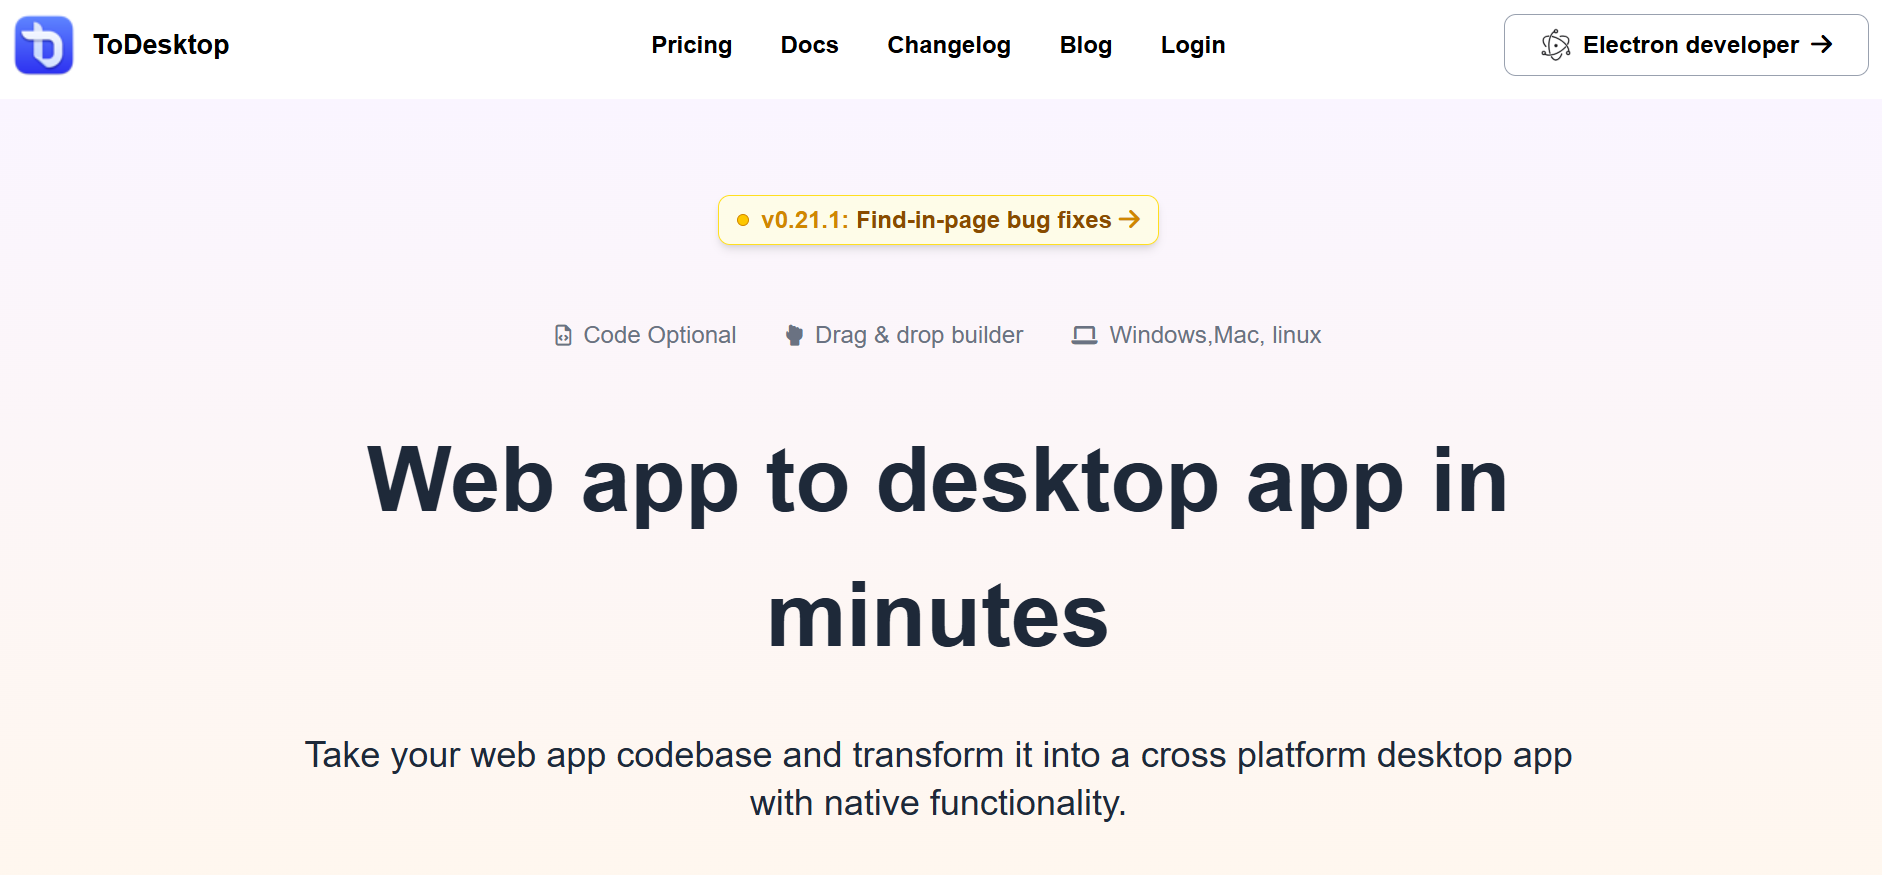
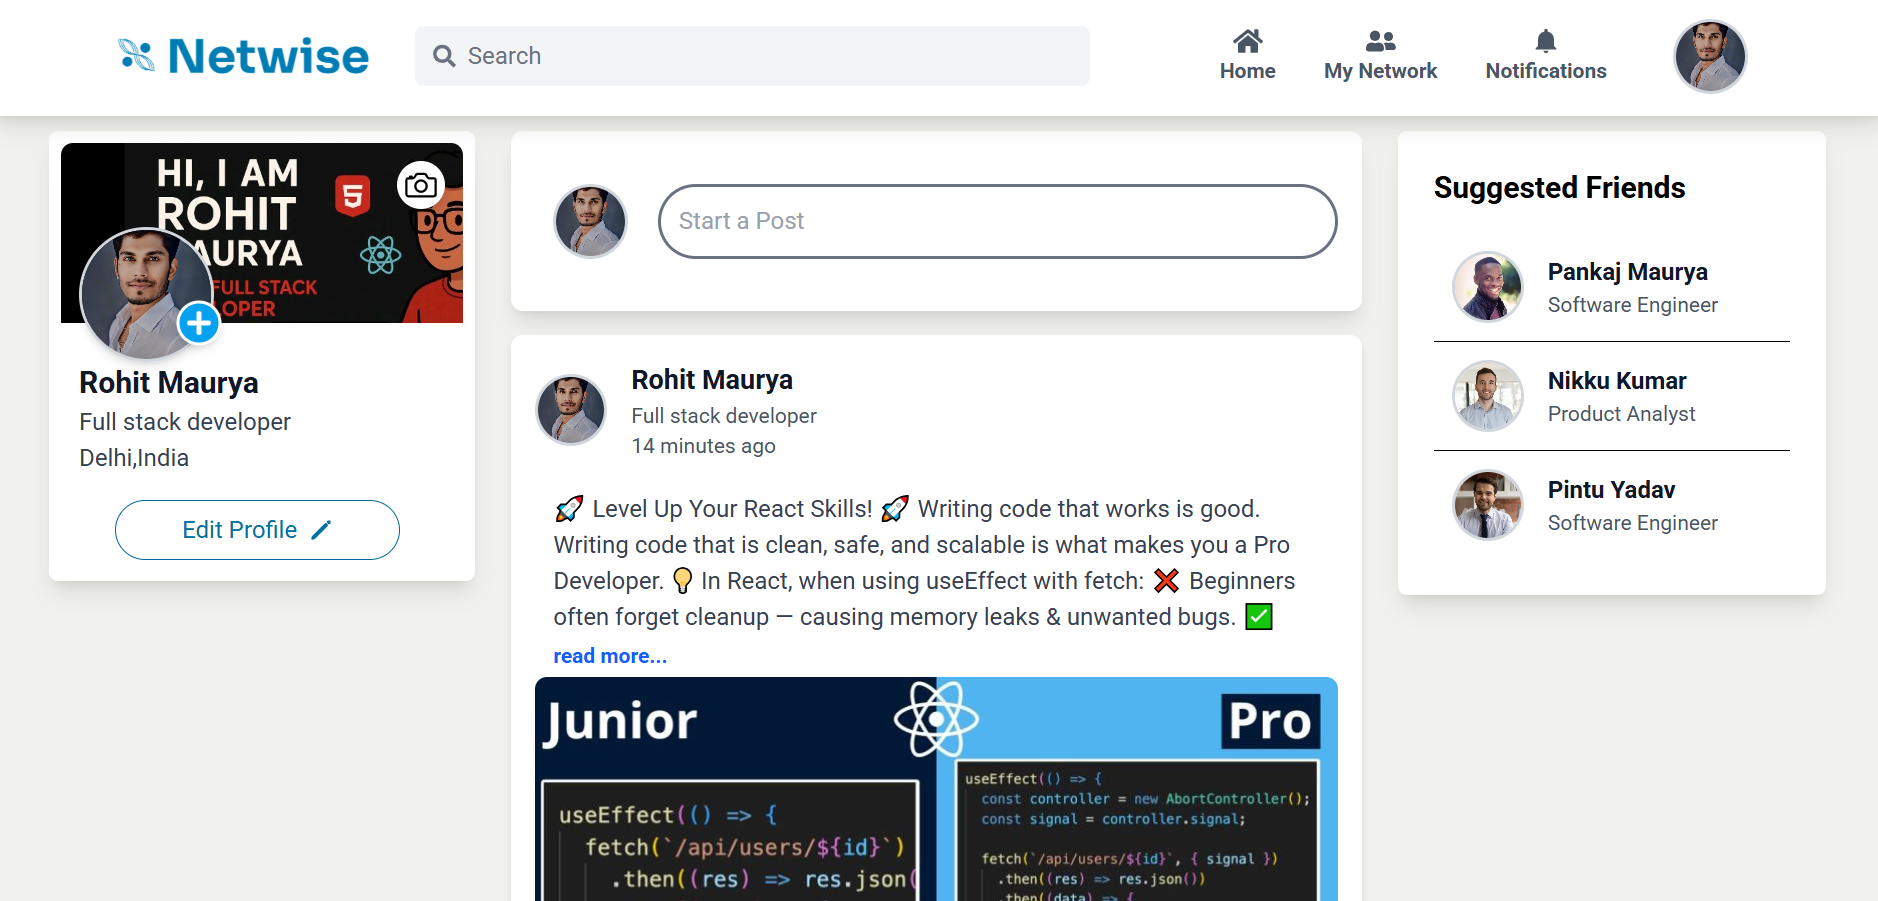
add netwise

diff --git a/src/constants/index.js b/src/constants/index.js
@@ -44,6 +44,22 @@ export const EXPERIENCES = [
 
 export const PROJECTS = [
   {
+    title: "Netwise-Social Network Platform",
+    image: project6,
+    link: "https://netwise-webapp-frontend.onrender.com/",
+    description:
+      " A full-stack professional networking platform inspired by LinkedIn, featuring secure sign-up and login, personalized profiles with photo, skills, education, company, and experience. Key functionality includes creating and sharing posts (text only), real-time likes and comments using Socket.io, and the ability to send, accept, or reject connection requests.",
+    technologies: [
+      "React.js",
+      "Node.js",
+      "Express.js",
+      "MongoDB",
+      "JWT Authentication",
+      "Tailwind CSS",
+      "Socket.io",
+    ],
+  },
+  {
     title: "QuickChat-Realtime Chat Application",
     image: project1,
     link: "https://quick-chat-client-nu.vercel.app/",
@@ -102,14 +118,7 @@ export const PROJECTS = [
       "Developed a responsive movie website that showcases movie previews, download links, and details such as year, quality, and genre. Designed an intuitive user interface with a clean layout, search functionality, and structured menus for easy navigation. Focused on optimizing page structure and styling for better user experience across devices.",
     technologies: ["HTML", "CSS", "JavaScript", "API"],
   },
-  {
-    title: "ToDesktop WebApp",
-    image: project6,
-    link: "https://todesktop-by-rohit-maurya.netlify.app/",
-    description:
-      "A fully functional e-commerce website with features like product listing, shopping cart, and user authentication.I have built the frontend of the ToDesktop website, replicating its complete user interface. The website is fully responsive and adapts seamlessly to mobile, tablet, and laptop screen sizes.",
-    technologies: ["HTML", "Tailwind CSS", "React"],
-  },
+
 ];
 
 export const CONTACT = {
